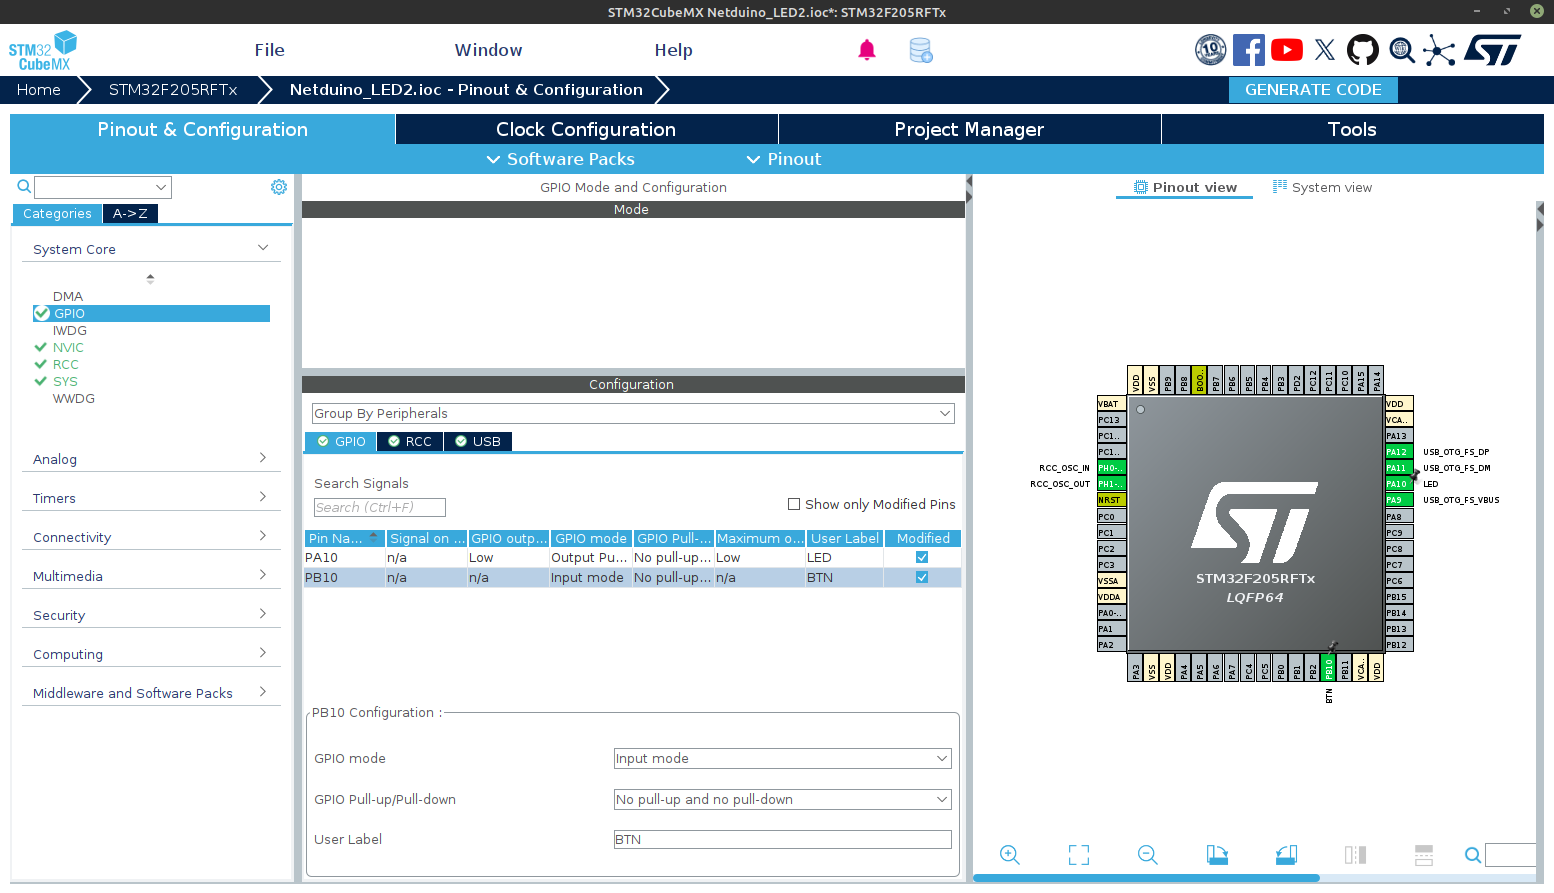
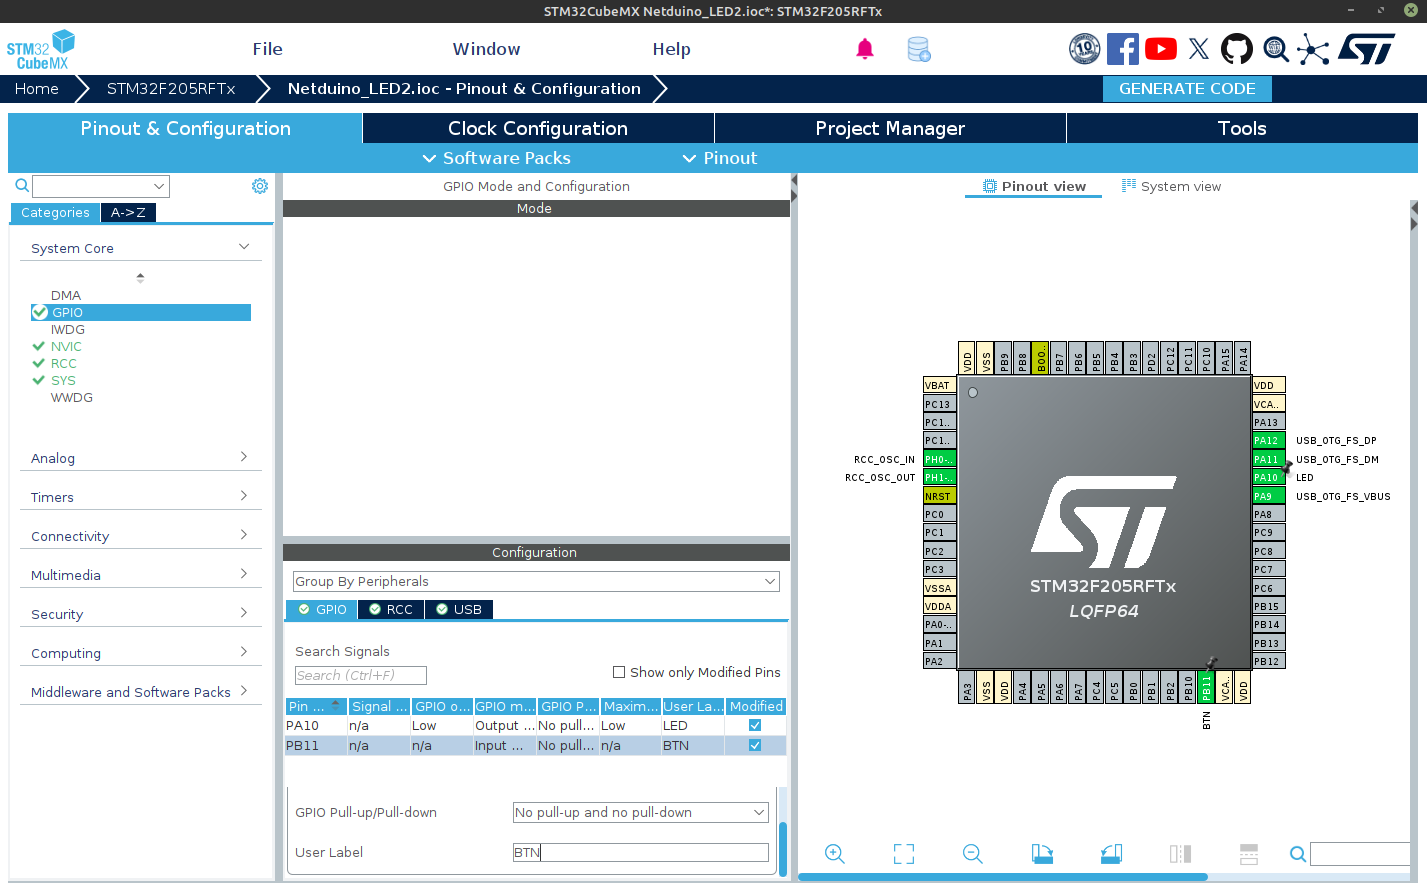
FIx Post (PB11 vs PB10)

diff --git a/content/posts/2025/0824-STM32Cube-and-Netduino-2.md b/content/posts/2025/0824-STM32Cube-and-Netduino-2.md
@@ -159,14 +159,18 @@ That's it.  If all went well you should see the blue LED blinking away.  Well do
 ![Netduino 2 Blinking Blue](/Netduino2BlinkyLight.gif)
 
 # Before We Go
-Let's write some code to use the user button (BTN) along with that LED.  This will also help us understand how to modify our project configuration since we need to enable the button using the STM32CubeMX tool.
+Let's write some code to use the user button (BTN) along with that LED.  This will also help us understand how to modify our project configuration since we need to enable the button using the STM32CubeMX tool.  If you go back to the schematic you'll see the user button (SWITCH1 in the schematic) is wired to two pins, PB11 and PC14.  Keep thin mind, we'll only need one of those pins in a minute when we configure our board. 
+
+*Note: The switch is also wired to BOOT0, but that's used to put the MCU in bootloader mode and probably not programmable.*  
+
+![Netduino 2 Schematic Button Wiring](/Netduino2SchematicMCUandButton.png)
 
 ## Back to the STM32 Tools
 1. Re-open the STM32CubeMX tool.  If it's still open you can just switch to it.  If not, click the **Launch STM32CubeMx** from the STM32 action bar in VS Code.
 2. If you're re-opening the STM32CubeMX software you'll need to re-open the configuration (*.ioc) file using the "Existing Projects" list.
-3. Once open, **left-click** on the **PB10** pin in the Pinout diagram (pin should be in the bottom right corner), and select **GPIO INPUT**
+3. Once open, **left-click** on the **PB11** pin in the Pinout diagram (pin should be in the bottom right corner), and select **GPIO INPUT**
 4. Expand the **System Core** section in the tree view on the left and select **GPIO**.
-5. In the **Configuration** window click the **PB10** entry and change the **User Label** to "BTN"
+5. In the **Configuration** window click the **PB11** entry and change the **User Label** to "BTN"
 
 Your configuration should now look like this..
 ![STM32CubeMX Configuration with user Button](/STM32CubeMXPinoutButton.png)
